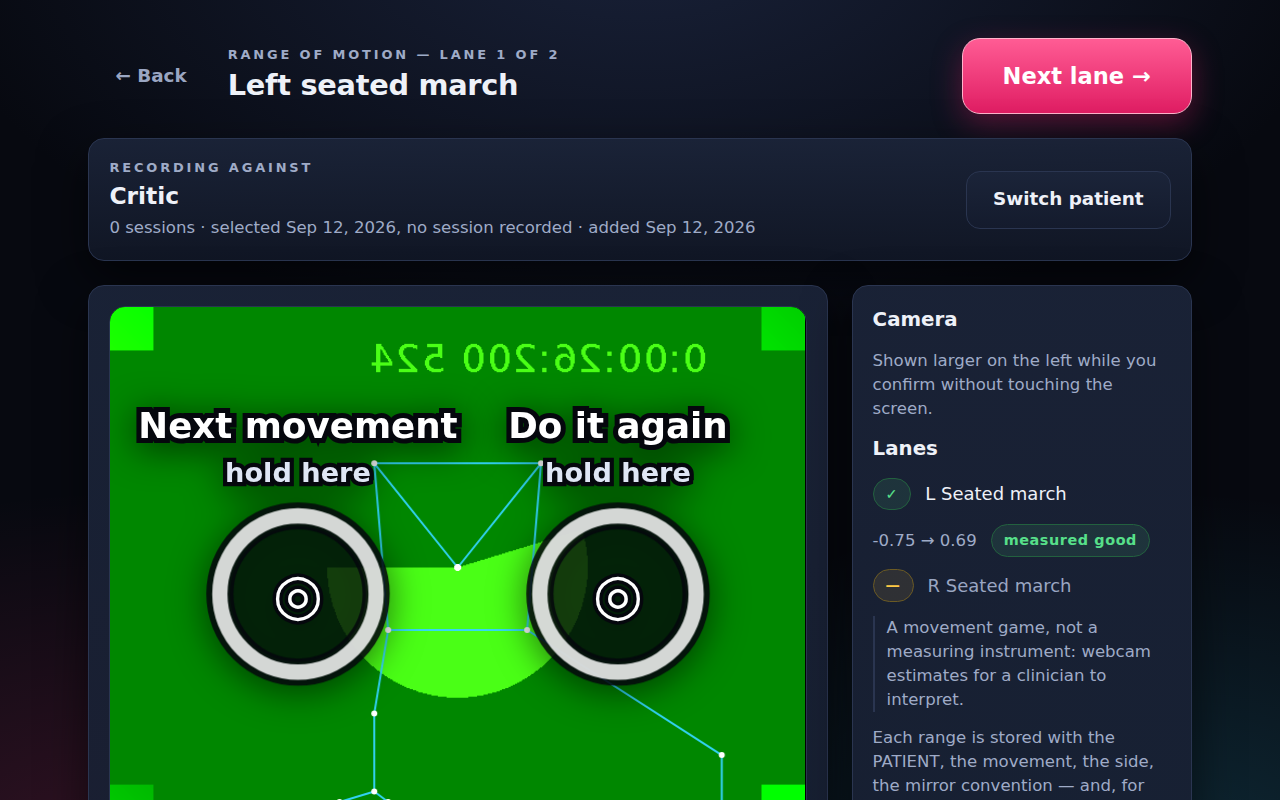
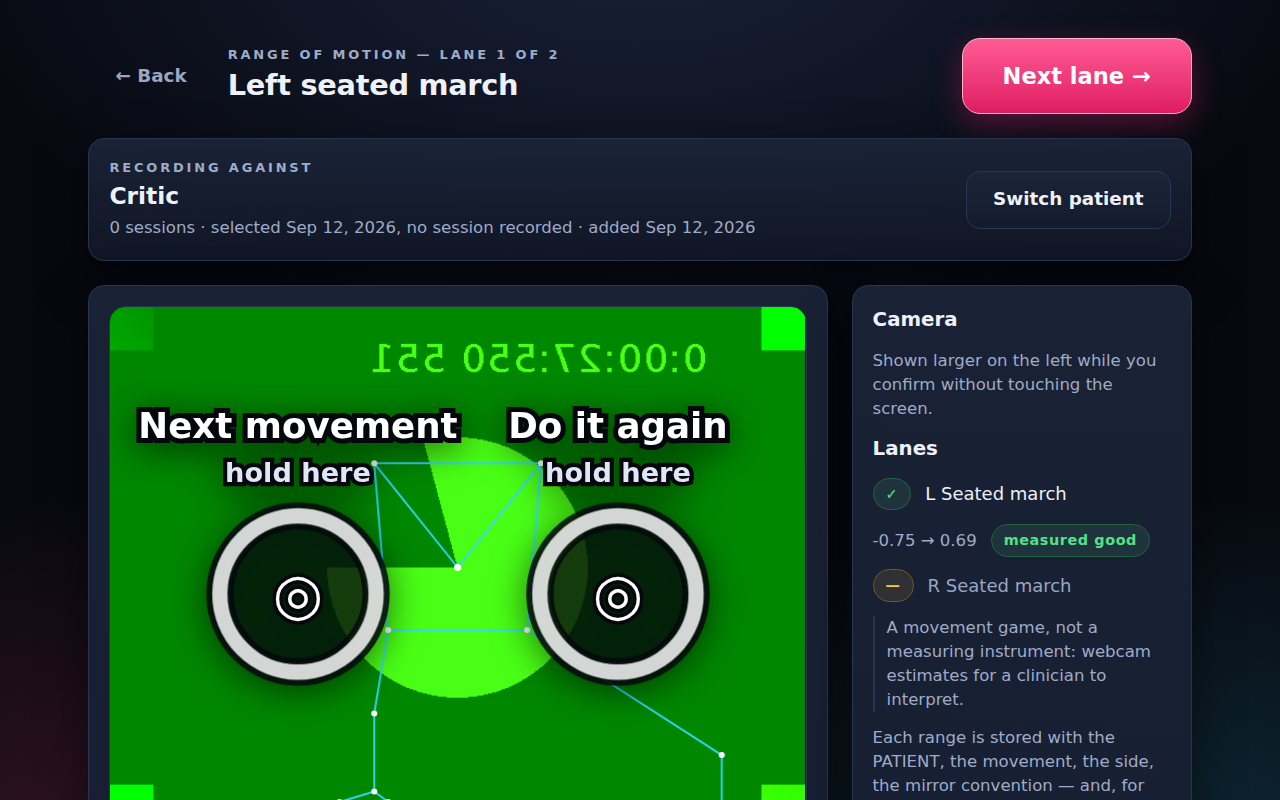
Hands-free proof harness: count real inputs, drive the flow by the body
critic/handsfree.mjs spends exactly one tap (the gesture AudioContext.resume
needs), then injects landmarks through the public VisionInput.processDetection
and holds a limb on each dwell target — it never calls a confirm handler, so it
tests what a patient could actually do rather than what a handler does.

It currently FAILS on this machine: the camera-check target is on screen but the
ring stays at 0% while a limb is held on it, and the readiness gate closes at
1 fps. A critic is reconciling that against the other harness, which passes.

Claude-Session: https://claude.ai/code/session_01A7vPZx7mKZcGGjWUGDdbma

diff --git a/README.md b/README.md
@@ -119,6 +119,7 @@ npm run critic:audio   # proves the per-lane ducking end to end: real Web Audio 
 npm run critic:uneven  # a seeded shared tablet whose latest session was tracked at 11.8 fps: no
                        # comparison across it may render as a plain gain, at 1024/1280/1920
 npm run critic:firstnote  # throttled 8 Mbit/s: bytes after Start and Start → first note
+npm run critic:handsfree  # one tap on Home, then a body: camera check → calibration → song
 ```
 
 Each of these starts and stops its own dev server. `critic:smoke` drives the whole flow and
@@ -127,6 +128,35 @@ asserts the engine scored, the clock froze on pause, and the session was saved.
 feeding the engine, and reads the live Web Audio gains to confirm the missing lane's
 instrument dips in proportion, that no other lane's instrument moves with it, and that the
 rest of the band keeps going.
+
+### Nobody has a hand free
+
+In hand mode the patient's hands **are** the input device, and in leg mode they are seated out of
+reach of the screen — so every click between the camera check and the first note either breaks the
+pose the app has just asked them to hold or needs a second person in the room. That is what the
+dwell targets are for, and `npm run critic:handsfree` is the check that they actually work for a
+body rather than for a mouse.
+
+It runs a real camera session in headless Chromium against a fake webcam and spends exactly **one**
+real user input: a tap on Home, before the patient is in position, because the browser will not
+start an AudioContext without a genuine gesture. Everything after that is a body. Synthetic
+MediaPipe landmarks of a seated patient are fed to the live camera input through its own
+`processDetection`, so the same feature extraction, filters, ROM calibrator and lane triggers run as
+on a real webcam; the harness moves a knee onto the ring it can see on screen and holds it there,
+and it never calls a confirm handler. A listener installed before any app code counts every trusted
+input event and the run fails if more than that one tap ever reaches the page.
+
+What it asserts: that the camera check names a limb to hold, that the dwell target on each of the
+camera check, both ROM lanes and the latency check fills and confirms by itself, that every
+prescribed lane entered the song with a range the engine accepted, that the app recorded the session
+as hands-free, and that the Play screen is running the song. It screenshots each step into
+`critic/handsfree/`, including the ring part-full, because a full ring and an empty one both happen
+without anyone holding anything.
+
+On a machine with no graphics acceleration one camera frame costs seconds of main thread, which
+starves the page the injected patient arrives through. The harness lets the real camera open and run
+one real inference, and stops the detect loop there if that frame was too expensive — so the run
+says out loud that the camera check's device-readiness gate was not exercised on that machine.
 
 ### Time to the first note
 
